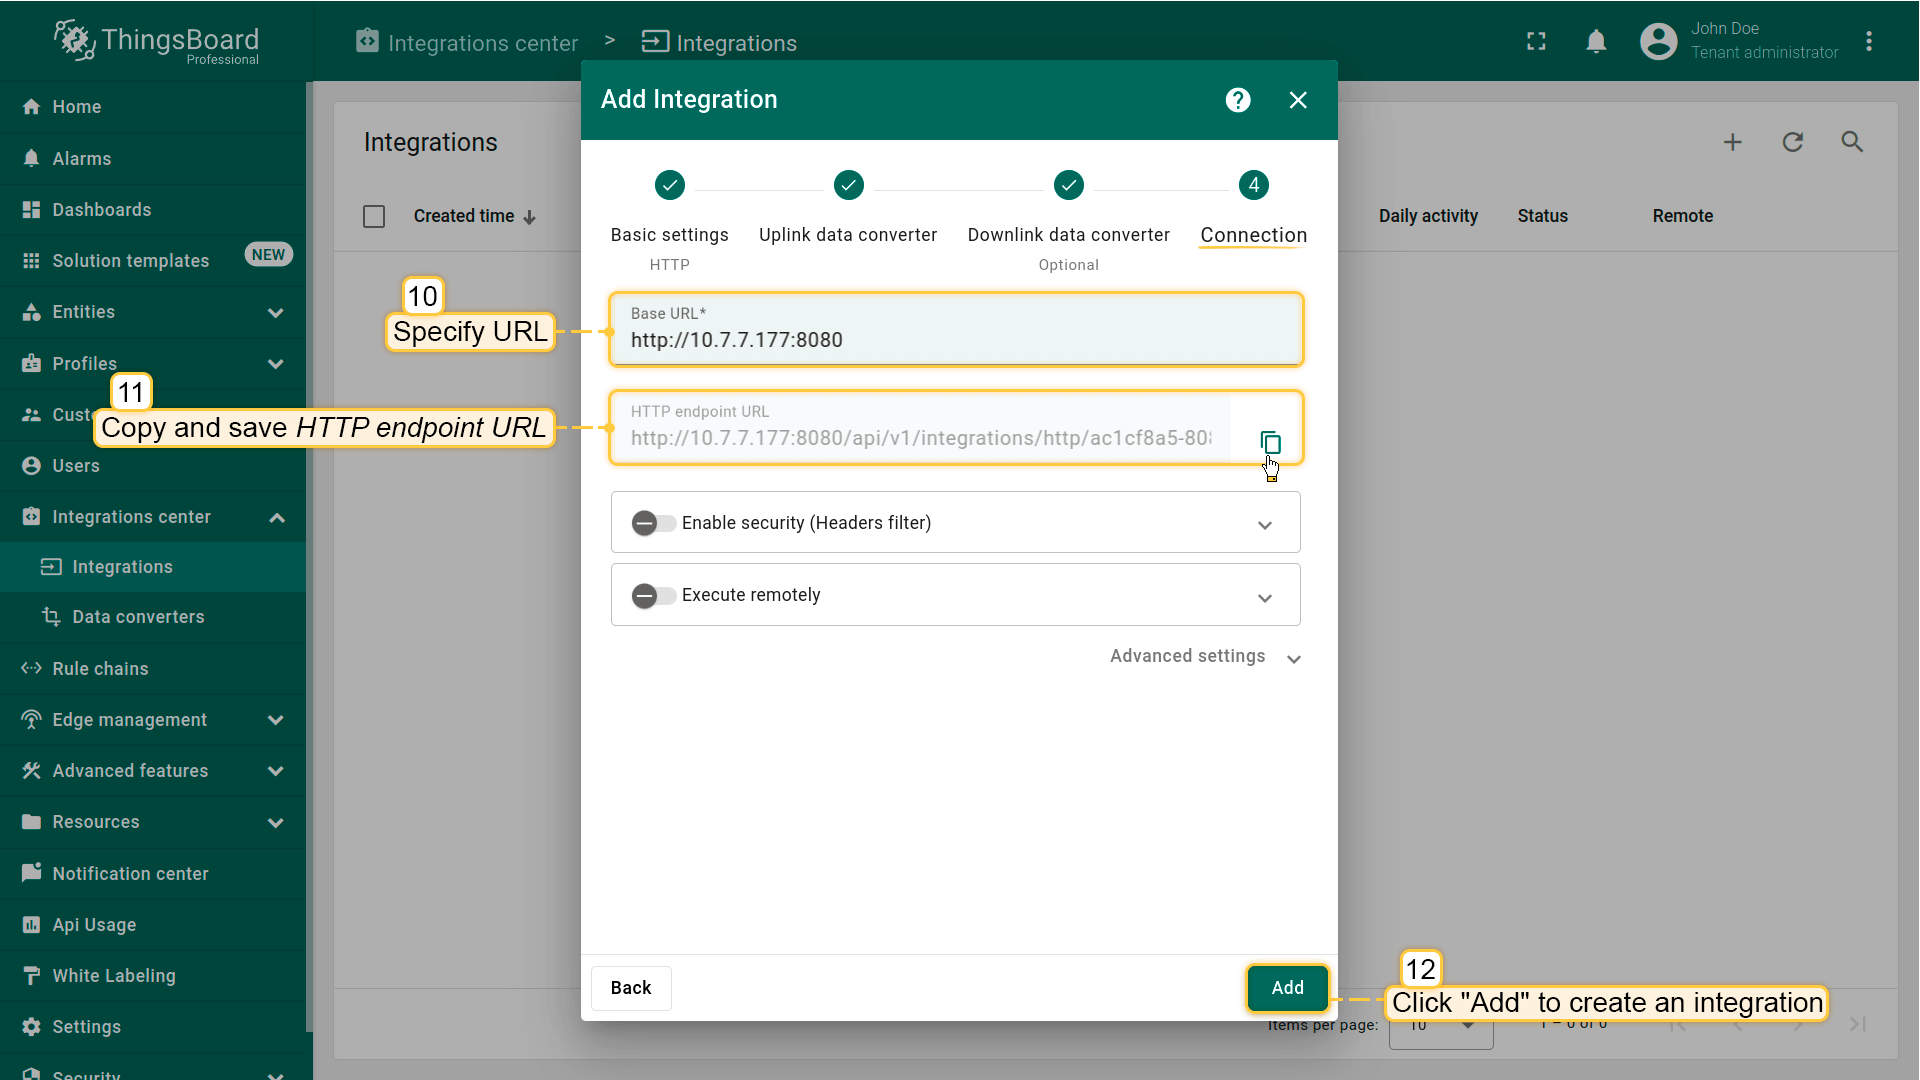
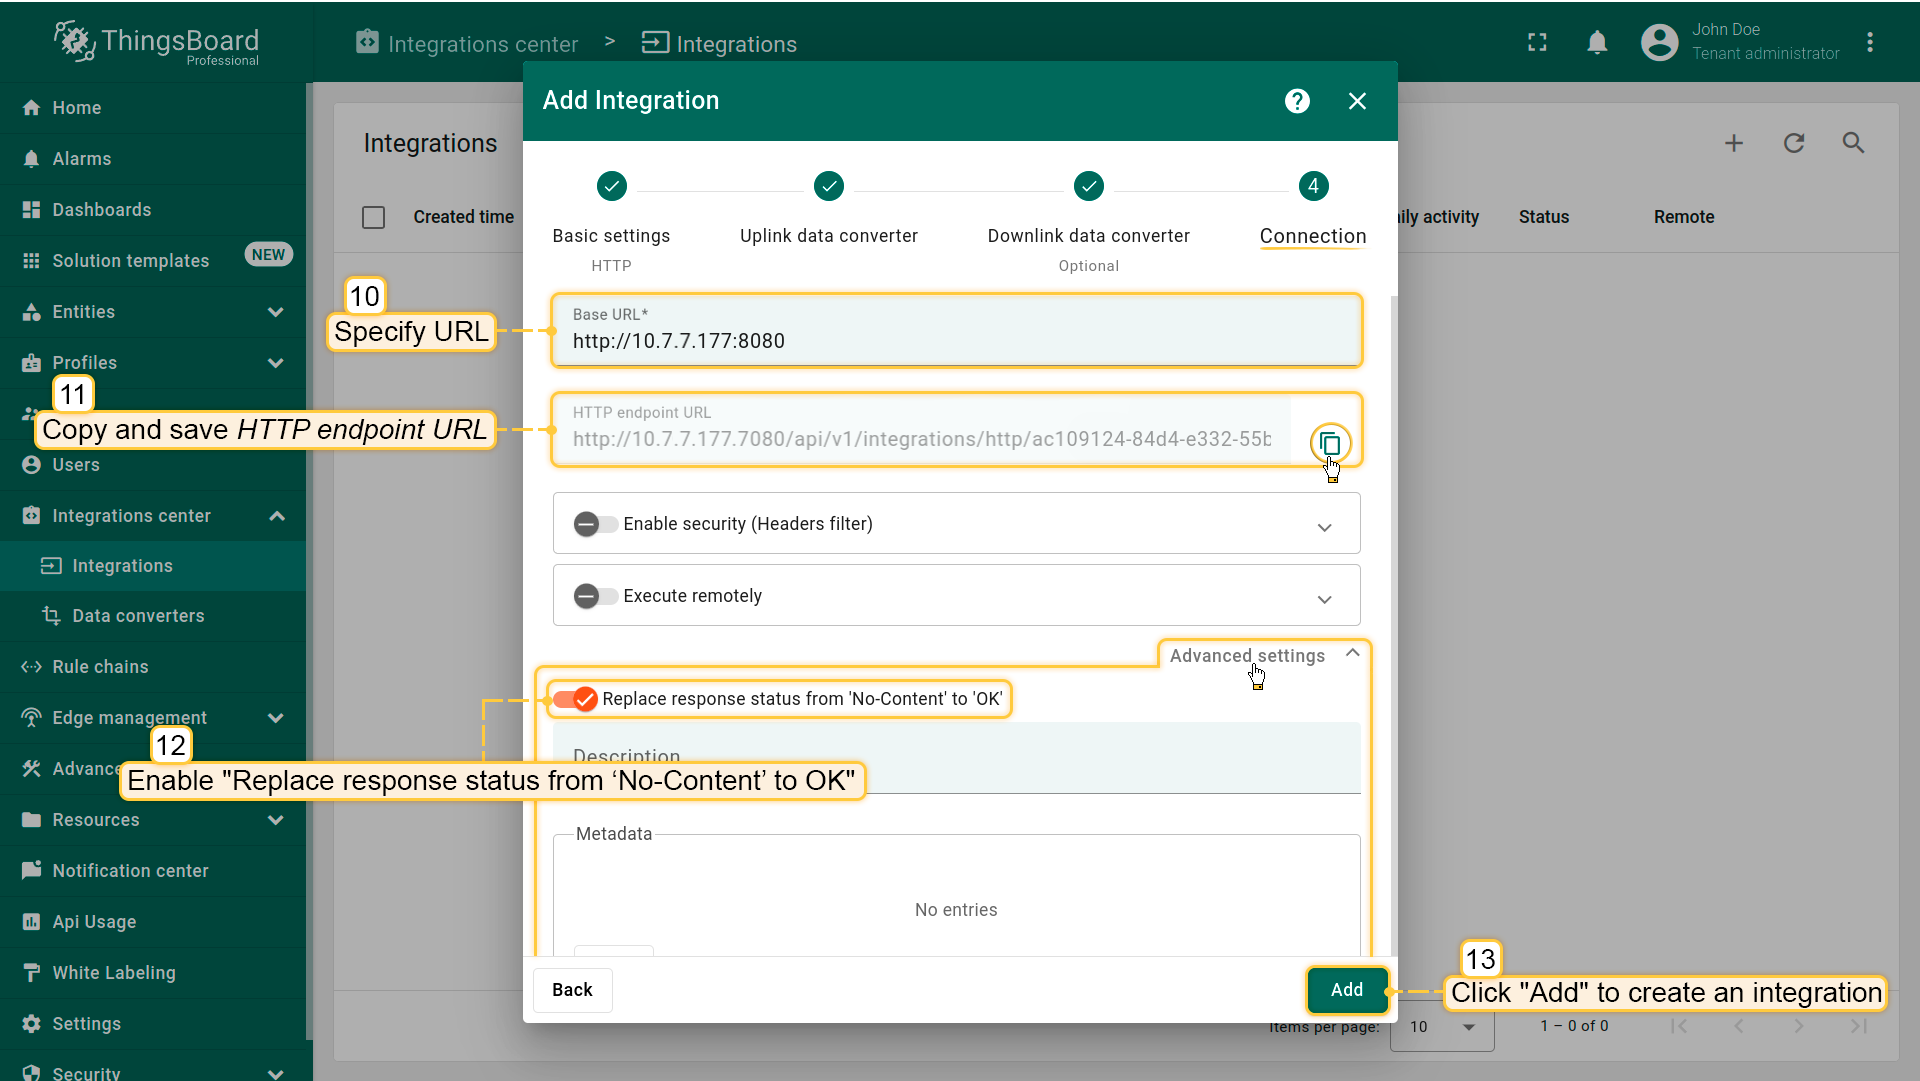
fixed one screenshots

diff --git a/_includes/docs/pe/user-guide/integrations/http.md b/_includes/docs/pe/user-guide/integrations/http.md
@@ -70,6 +70,8 @@ Now that the Uplink converter has been created, it is possible to create an inte
 
  - Please note down **HTTP endpoint URL** we will use this value later;
 
+ - In **Advanced settings** enable "**Replace response status from 'No-Content' to 'OK'**";
+
  - Click **Add** button to save the Integration.
 
 {% if docsPrefix == "pe/" %}
